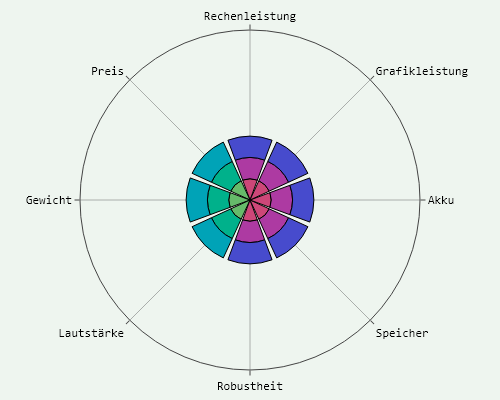
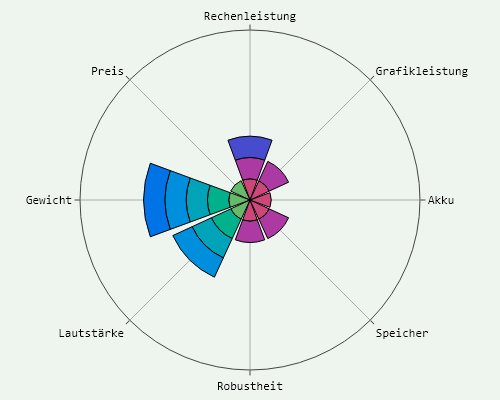
fixed bug no update on button previous click

Changed region(s): [[0.27, 0.36, 0.63, 0.69]]

diff --git a/ViewController.py b/ViewController.py
@@ -56,7 +56,7 @@ class ViewController(object):
         self.updatePlotOnCanvas(buttonClicked, window) 
         self.currentPage-=1
         self.updateLeftColumnElements(window)
-        self.updateRightColumnElements(buttonClicked, window)  
+        self.updateRightColumnElements(4, window)  
 
 
     def updateButtonValues(self, button, returnTextValue, returnHeaderValue):
